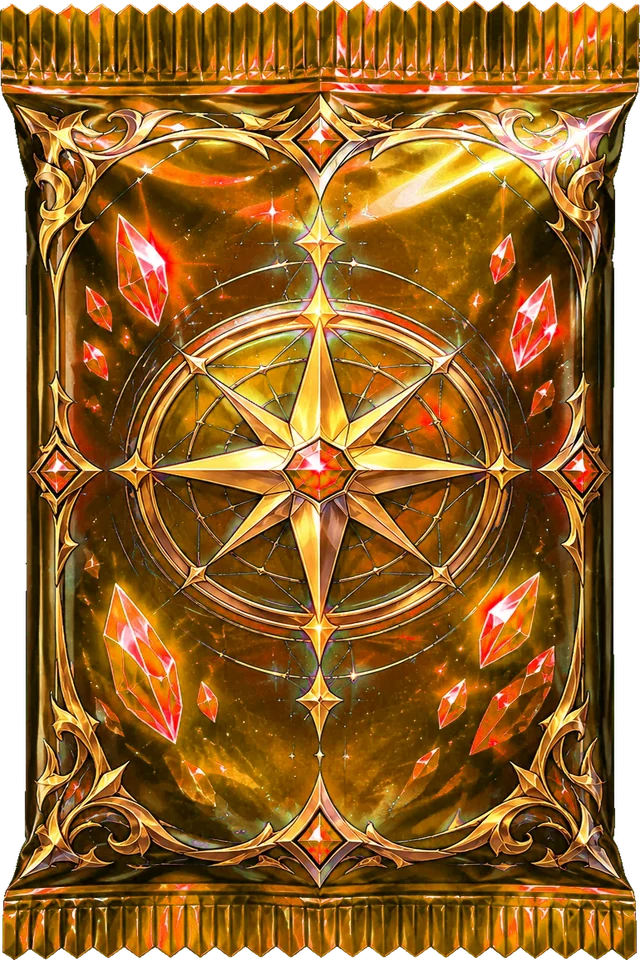
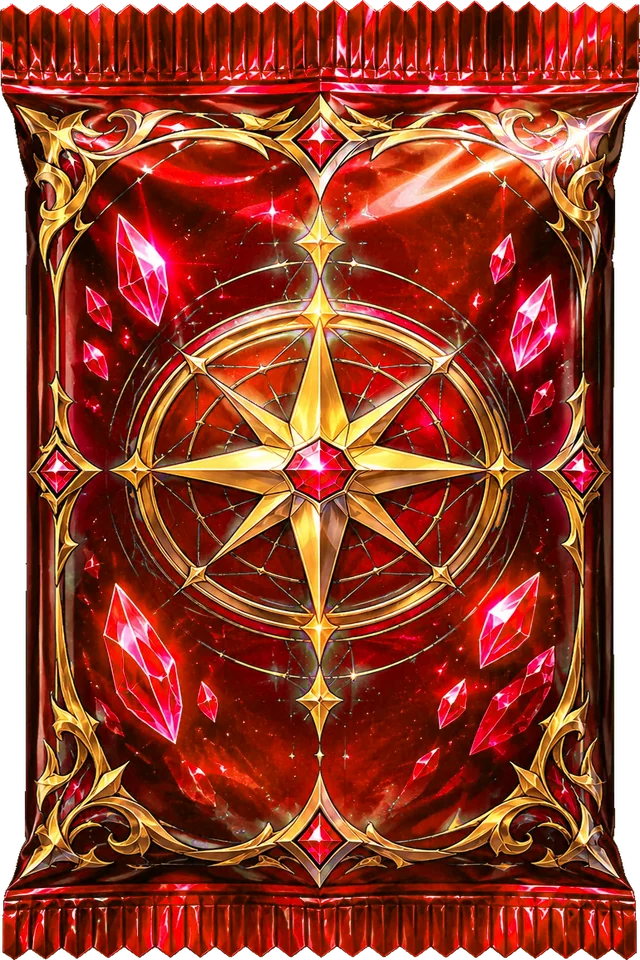
Lv.5 のパックを赤にし、ガチャの「使用中」の表示を消す
- Lv.5 のパックを金から赤にする（金だと金の縁取りと見分けにくい。ユーザーの指定）。まわりの光も赤
- レベルのボタンの下の「Lv.○ の排出率を使用中（コモン狙いなどに）」を消す。選んでいるレベルはボタンの光で分かる
- 空いた分、「まとめて」のときのパックを少し大きくする（390x844 で 177px → 218px）。
  390x844・375x667・430x932 の「1回」「まとめて」で、「引く」ボタンが下のタブより上に来ることを確かめた
- SPEC.md / assets/ui/README.md を更新。ASSET_V を 20260927j に上げる

Claude-Session: https://claude.ai/code/session_01QmM73CLEHt6TJmLNAjLPMT

diff --git a/js/gacha_ui.js b/js/gacha_ui.js
@@ -5,6 +5,8 @@ let GM="one",GN=10;
 const maxN=()=>Math.max(1,Math.min(100,Math.floor(S.coins/GACHA_COST)));
 const RORD=LEVELS;
 const RCOL={COMMON:"#9fb4dc",UNCOMMON:"#3ecf7a",RARE:"#3aa0ff",EPIC:"#b26bff",LEGENDARY:"#ffb43a"};
+// パックのまわりの光の色。Lv.5 のパックは赤（金だと縁取りと見分けにくい）なので、光も赤
+const PACK_COL={...RCOL,LEGENDARY:"#ff4a4a"};
 // パックは、選んでいる排出率のレベルのレアリティの色（tools/bake_assets.py が5色作る）
 const packSrc=()=>UI["gacha_pack_"+LEVELS[gachaLv()-1]]||UI.gacha_pack||"assets/pack.svg",backSrc=()=>UI.card_back||"assets/card_back.svg";
 function circleSvg(){
@@ -19,8 +21,8 @@ const gachaLv=()=>Math.min(S.gachaLevel||S.unlockedLevel,S.unlockedLevel);
 function gacha(){
   GN=Math.min(GN,maxN());const multi=GM==="multi",GL=gachaLv();
   $("#main").innerHTML=`<section class="gp2${multi?" multi":""}"><div class="gp2-head"><h2>ガチャ</h2><p>排出率を選んでカードを引こう</p></div>
-  <div class="gp2-lv"><div class="gp2-lv-t">排出率のレベル</div><div class="gp2-lvtabs">${LEVELS.map((r,i)=>{const n=i+1,lock=n>S.unlockedLevel;return `<button class="${n===GL?"on":""}${lock?" lock":""}" ${lock?"disabled":`onclick="setGachaLevel(${n})"`}>${lock?"🔒":"Lv."+n}</button>`}).join("")}</div>${GL<S.unlockedLevel?`<div class="gp2-lv-note">Lv.${GL} の排出率を使用中（コモン狙いなどに）</div>`:""}</div>
-  <div class="gp2-stage" style="--pc:${RCOL[LEVELS[GL-1]]}" onclick="pullBtn()"><div class="gx-circle on">${circleSvg()}</div><i class="gp2-glow"></i><img class="gp2-pack" src="${packSrc()}" alt="パック"></div>
+  <div class="gp2-lv"><div class="gp2-lv-t">排出率のレベル</div><div class="gp2-lvtabs">${LEVELS.map((r,i)=>{const n=i+1,lock=n>S.unlockedLevel;return `<button class="${n===GL?"on":""}${lock?" lock":""}" ${lock?"disabled":`onclick="setGachaLevel(${n})"`}>${lock?"🔒":"Lv."+n}</button>`}).join("")}</div></div>
+  <div class="gp2-stage" style="--pc:${PACK_COL[LEVELS[GL-1]]}" onclick="pullBtn()"><div class="gx-circle on">${circleSvg()}</div><i class="gp2-glow"></i><img class="gp2-pack" src="${packSrc()}" alt="パック"></div>
   <div class="gp2-panel orn"><div class="gm-tabs"><button class="${multi?"":"on"}" onclick="setGM('one')">1回</button><button class="${multi?"on":""}" onclick="setGM('multi')">まとめて</button></div>
   ${multi?`<div class="gm-box"><div class="gm-step"><button onclick="gnSet(GN-10)">−10</button><button onclick="gnSet(GN-1)">−</button><input id="gn" type="number" inputmode="numeric" min="1" max="${maxN()}" value="${GN}" oninput="gnSet(this.value,1)"><button onclick="gnSet(GN+1)">＋</button><button onclick="gnSet(GN+10)">＋10</button></div><div class="gm-quick"><button onclick="gnSet(10)">10回</button><button onclick="gnSet(50)">50回</button><button onclick="gnSet(999)">最大 ${maxN()}回</button></div></div>`:""}
   <div class="gp-price" id="gp-price"></div>

diff --git a/index.html b/index.html
@@ -5,9 +5,9 @@
 <meta name="viewport" content="width=device-width,initial-scale=1">
 <meta name="theme-color" content="#080b15">
 <title>WORD GRIMOIRE</title>
-<link rel="icon" href="assets/ui/favicon.png?v=20260927i">
-<link rel="stylesheet" href="css/style.css?v=20260927i">
-<link rel="stylesheet" href="css/upgrade.css?v=20260927i">
+<link rel="icon" href="assets/ui/favicon.png?v=20260927j">
+<link rel="stylesheet" href="css/style.css?v=20260927j">
+<link rel="stylesheet" href="css/upgrade.css?v=20260927j">
 </head>
 <body>
 <div class="app">
@@ -25,16 +25,16 @@
 </div>
 <!-- 画像・CSS・JS の版。中身を差し替えたらこの数字を変える。
      変えないと、一度読み込んだ端末が古いファイルを使い続ける（キャッシュ） -->
-<script>const ASSET_V="20260927i";</script>
-<script src="js/ui_manifest.js?v=20260927i"></script>
-<script src="js/words.js?v=20260927i"></script>
-<script src="js/card_art.js?v=20260927i"></script>
-<script src="js/ui_images.js?v=20260927i"></script>
-<script src="js/config.js?v=20260927i"></script>
-<script src="js/save.js?v=20260927i"></script>
-<script src="js/game.js?v=20260927i"></script>
-<script src="js/gacha_ui.js?v=20260927i"></script>
-<script src="js/study_ui.js?v=20260927i"></script>
-<script src="js/app.js?v=20260927i"></script>
+<script>const ASSET_V="20260927j";</script>
+<script src="js/ui_manifest.js?v=20260927j"></script>
+<script src="js/words.js?v=20260927j"></script>
+<script src="js/card_art.js?v=20260927j"></script>
+<script src="js/ui_images.js?v=20260927j"></script>
+<script src="js/config.js?v=20260927j"></script>
+<script src="js/save.js?v=20260927j"></script>
+<script src="js/game.js?v=20260927j"></script>
+<script src="js/gacha_ui.js?v=20260927j"></script>
+<script src="js/study_ui.js?v=20260927j"></script>
+<script src="js/app.js?v=20260927j"></script>
 </body>
 </html>

diff --git a/css/upgrade.css b/css/upgrade.css
@@ -567,7 +567,6 @@ nav{grid-template-columns:repeat(4,1fr)}
 .gp2-lvtabs button{padding:8px 0;border-radius:10px;border:1px solid #33395a;background:#10162b;color:#c9cde0;font:800 12px Georgia,serif}
 .gp2-lvtabs .on{border:2px solid #f1d27a;background:linear-gradient(#3a3163,#1a1d3d);color:#ffe08a;box-shadow:0 0 10px #f1d27a44}
 .gp2-lvtabs .lock{opacity:.4}
-.gp2-lv-note{margin-top:6px;text-align:center;font-size:11.5px;color:#f1d27a;background:#20265aaa;border:1px solid #6b5a2c;border-radius:8px;padding:5px 8px}
 /* ガチャ画面の価格表示の通貨アイコン */
 .gp-price .ico{display:inline-block;width:18px;height:18px;vertical-align:-3px;margin:0 1px}
 
@@ -622,7 +621,7 @@ nav{grid-template-columns:repeat(4,1fr)}
 .gp2 .gold-btn{padding:11px}
 @media(max-height:700px){.gp2-head p{display:none}.gp2-stage{width:min(52vw,20dvh);height:min(52vw,20dvh)}}
 /* 「まとめて」は回数を選ぶ欄のぶんパネルが高くなるので、パックをもう一回り小さくする */
-.gp2.multi .gp2-stage{width:min(48vw,21dvh,200px);height:min(48vw,21dvh,200px)}
+.gp2.multi .gp2-stage{width:min(56vw,26dvh,230px);height:min(56vw,26dvh,230px)}
 .gp2.multi .gm-box{margin-bottom:4px}
 .gp2.multi .gm-step,.gp2.multi .gm-quick{margin-bottom:6px}
-@media(max-height:700px){.gp2.multi .gp2-stage{width:min(40vw,15dvh);height:min(40vw,15dvh)}.gp2-lv-note{display:none}.gp2-panel.orn{padding-top:6px}.gp2.multi .gm-quick{margin-top:4px}}
+@media(max-height:700px){.gp2.multi .gp2-stage{width:min(40vw,15dvh);height:min(40vw,15dvh)}.gp2-panel.orn{padding-top:6px}.gp2.multi .gm-quick{margin-top:4px}}

diff --git a/js/ui_manifest.js b/js/ui_manifest.js
@@ -21,7 +21,7 @@ const UI_MANIFEST={
   "gacha_pack_UNCOMMON": "assets/ui/baked/gacha_pack_uncommon.webp?v=257b326a0b",
   "gacha_pack_RARE": "assets/ui/baked/gacha_pack_rare.webp?v=9ead60e15b",
   "gacha_pack_EPIC": "assets/ui/baked/gacha_pack_epic.webp?v=310b11e913",
-  "gacha_pack_LEGENDARY": "assets/ui/baked/gacha_pack_legendary.webp?v=6403cfdcf4"
+  "gacha_pack_LEGENDARY": "assets/ui/baked/gacha_pack_legendary.webp?v=bddf115394"
  },
  "icons": {
   "icon_study": "assets/ui/baked/icons/icon_study.webp?v=1edff1c3e4",

diff --git a/tools/bake_assets.py b/tools/bake_assets.py
@@ -151,7 +151,7 @@ PACK_TINT = {
     "UNCOMMON": (145, 1.0),     # 緑
     "RARE": (None, 1.0),        # 青（元の絵）
     "EPIC": (275, 1.0),         # 紫
-    "LEGENDARY": (28, 1.05),    # 金・橙
+    "LEGENDARY": (0, 1.05),     # 赤（金にすると金の縁取りと見分けにくいので、ユーザーの指定で赤）
 }
 PACK_W = 640   # ガチャ画面で幅 約200px、開封演出で 約190px。画素密度3倍で 600px
 

diff --git a/SPEC.md b/SPEC.md
@@ -88,10 +88,11 @@
 | Lv.5 | 25 | 25 | 25 | 18 | 7 |
 
 - 演出：暗転 → 魔法陣 → パック → 揺れ → 光 → 開封 → カード → 回転 → 表面 → レアリティ表示（実装済み）。高レアほど豪華
-- **パックの色は、選んでいる排出率のレベルのレアリティの色**（Lv.1 銀・Lv.2 緑・Lv.3 青・Lv.4 紫・Lv.5 金）。ガチャ画面と開封演出で同じ色。
+- **パックの色は、選んでいる排出率のレベルのレアリティの色**（Lv.1 銀・Lv.2 緑・Lv.3 青・Lv.4 紫・Lv.5 赤。Lv.5 は金だと縁取りと見分けにくいので赤）。ガチャ画面と開封演出で同じ色。
   `tools/bake_assets.py` が `gacha_pack` の青い部分だけを塗り替えて5色作る（金の縁取りは残す）。まわりの光もその色にする
 - **ガチャ画面は、スクロールせずに「引く」ボタンまで見える**ようにする。パックの大きさは画面の幅と高さの小さいほうに合わせ、
-  「まとめて」のときは回数を選ぶ欄のぶん一回り小さくする。高さの低い端末（700px 以下）では説明文と使用中の表示を隠す
+  「まとめて」のときは回数を選ぶ欄のぶん一回り小さくする。高さの低い端末（700px 以下）では説明文を隠す。
+  レベルの下の「Lv.○ の排出率を使用中」の表示は、場所を取るので出さない（選んでいるレベルはボタンの光で分かる）
 
 ---
 

diff --git a/assets/ui/README.md b/assets/ui/README.md
@@ -15,7 +15,7 @@
 | `study_bg` | 勉強画面の背景（適用済み。省略可。無ければ `home_bg`） | 縦長 9:16 |
 | `cards_bg` | カード図鑑の背景（適用済み。省略可。無ければ `home_bg`） | 縦長 9:16 |
 | `app_bg` | 全画面の背景 | 900x1600（縦長） |
-| `gacha_pack` | ガチャのパック（透過。詳細は `gacha_prompts.md`）。**青いパックで作る**。`bake_assets.py` が青い部分をレベルごとの色（銀・緑・青・紫・金）に塗り替えて5色作る | 縦長 2:3 |
+| `gacha_pack` | ガチャのパック（透過。詳細は `gacha_prompts.md`）。**青いパックで作る**。`bake_assets.py` が青い部分をレベルごとの色（銀・緑・青・紫・赤）に塗り替えて5色作る | 縦長 2:3 |
 | `card_back` | カード裏面（透過） | 縦長 3:4 |
 | `magic_circle` | 魔法陣（透過。省略可） | 正方形 |
 | `logo_title` | 題名ロゴ（透過WebP。ホームと起動画面） | 横長 3:1（幅 1100 程度） |
